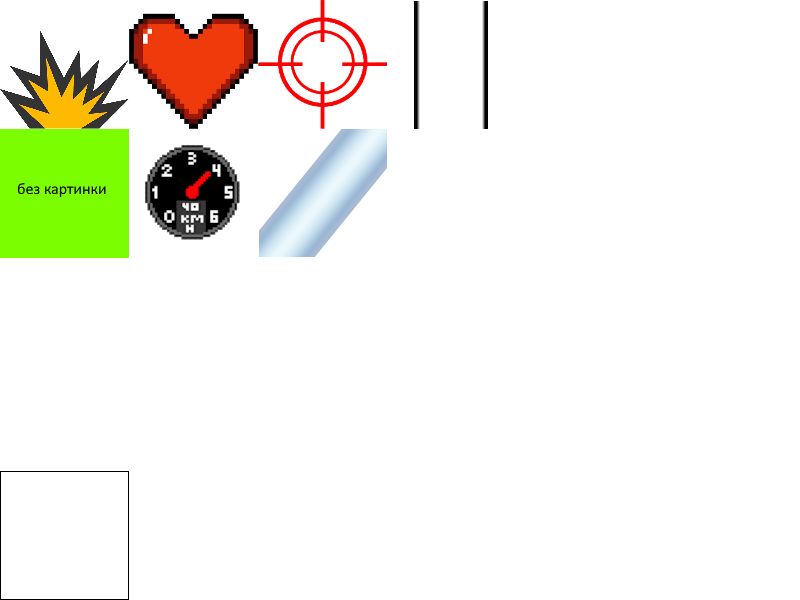
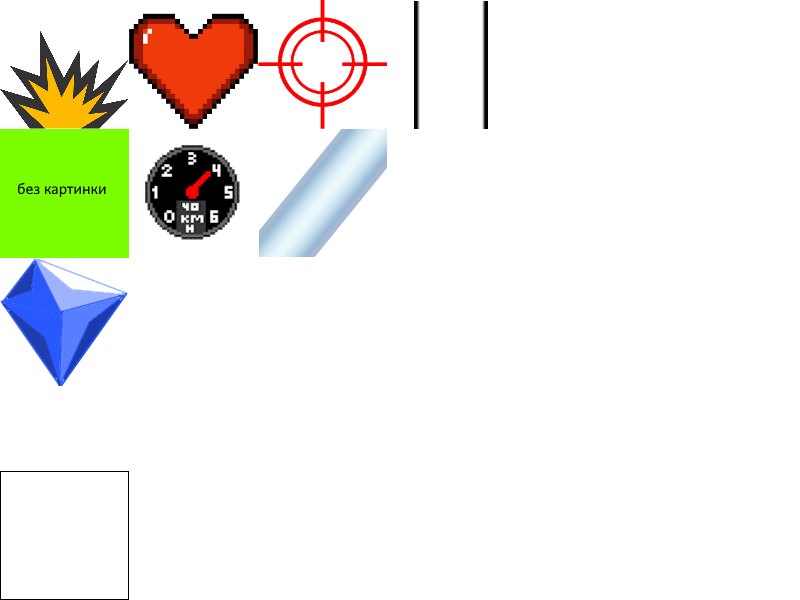
health drop

Changed region(s): [[0.0, 0.42, 0.1562, 0.66]]

diff --git a/index.js b/index.js
@@ -145,6 +145,8 @@ ricoBullet.src = `${srcImg}ricoBullet.png`;
 freezeBullet.src = `${srcImg}freezeBullet.png`;
 const ray = new Image();
 ray.src = `${srcImg}Effects/ray.png`;
+const health_img = new Image();
+health_img.src = `${srcImg}health.png`;
 const ricochetBullets = [], freezeGunBullets = [],
 ricochetBulletsSpeed = 20, freezeGunBulletsSpeed = 7;
 const raySize = 20, rayRange = 400;
@@ -154,6 +156,9 @@ for(let i = 1; i <= 8; ++i){
     g.src=`${srcImg}Effects/rayExp${i}.png`;
     rayExps.push(g);
 }
+
+var COLLECT_RANGE = 100;
+
 const playerStatesList = [
     {
         name: 'speed',
@@ -203,6 +208,14 @@ const playerStatesList = [
         img: '#000',
         icon: {x: 3, y: 0},
         active: false
+    },
+    {
+        name: 'collect_range',
+        cur: 0,
+        max: 3,
+        img: 'blue',
+        icon: {x: 0, y :2},
+        active: false
     }
 ],
 playerStates = {
@@ -212,7 +225,8 @@ playerStates = {
     damage: 3,
     laser: 4,
     airSupport: 5,
-    ray: 6
+    ray: 6,
+    collect_range: 7
 }
 const tanksParams={ 
     '01':{
@@ -1193,6 +1207,27 @@ new Pumping('Увеличить урон', {x: 0, y: 0}, ()=>{
         p.damageT*=1.2;    
     },playerStatesList[playerStates.damage].max-1));
 }),
+new Pumping('Радиус сбора +20%', {x: 0, y: 2},
+()=>{
+    playerStatesList[playerStates.collect_range].active=true;
+    playerStatesList[playerStates.collect_range].cur++;
+    COLLECT_RANGE*=1.2;
+    pumpings.push(
+        new Pumping('Радиус сбора +30%', {x: 0, y: 2},
+        ()=>{
+            playerStatesList[playerStates.collect_range].cur++;
+            COLLECT_RANGE*=1.3;
+            pumpings.push(
+                new Pumping('Радиус сбора +40%', {x: 0, y: 2},
+                ()=>{
+                    playerStatesList[playerStates.collect_range].cur++;
+                    COLLECT_RANGE*=1.4;
+                })
+            )
+        }),
+    )
+}
+)
 // new Pumping('ОГНЕМЁТ', '#fc6203', ()=>{p.reload.t = 0;p.isRicochet = false; p.isTesla=false; p.isFiregun=true; p.isMGun=false; p.MGActive = false; p.isThunder=false; p.setGun(firegunIMG); p.damageT=2; p.reload.mTime = 86; p.isFreezegun=false;}),
 // new Pumping('РЕЛЬСА', '#00fffb', ()=>{p.reload.t = 0;p.isRicochet = false; p.isTesla=true; p.isFiregun=false; p.isMGun=false; p.MGActive = false; p.isThunder=false; p.setGun(teslaIMG); p.damageT=50; p.reload.mTime = 70; p.isFreezegun=false;}),
 // new Pumping('ПУЛЕМЁТ', '#00fffb', ()=>{p.reload.t = 0;p.isRicochet = false; p.isMGun=true; p.isFiregun=false; p.isTesla=false; p.setGun(MGIMG); p.isThunder=false; p.damageT=1; p.reload.mTime = 100; p.isFreezegun=false;}),
@@ -1205,6 +1240,10 @@ new Pumping('Увеличить урон', {x: 0, y: 0}, ()=>{
 
 ];
 
+const exp_image = new Image();
+
+exp_image.src = `${srcImg}exp.png`;
+
 const p = new Tank({x: 824, y: 350},{hull: ALL_HULLS[0], gun: ALL_GUNS[0]},8, 'A', avliableHullColors[0],teams.allies, 2, pickUpRandomFromArray(aviableTracks)), //pickUpRandomFromArray(aviableTanks)
 secondTank = new Tank({x: canvas.width/2-250, y: canvas.height/2-250},{hull:'08', gun:'02'},5, 'A'); //,{hull: {center:{x:128, y:174}}, gun: {center:{x: 128, y: 160}}}
 // p.bombardment.isActive = true;
@@ -1213,7 +1252,7 @@ damage=30;
 p.countShots=1;
 p.isLaserActive=0;
 p.damageT = 30;
-p.laserDamage = 0.2;
+p.laserDamage = 0.1;
 // p.reload.mTime = 180;
 p.reload.t = 0;
 p.attackRange = canvas.width*0.3;
@@ -1540,11 +1579,42 @@ function renderGame(){
         // c.fillText(`tanks.length = ${tanks.length}`, canvas.width*3/4, 50);
         // c.fillText(`x: ${p.pos.x}`, 10, 50);
         // c.fillText(`y: ${p.pos.y}`, 10, 100);
-        exps.forEach(e=>{
-            if(e.team==teams.enemies)
-                c.fillStyle='blue';
-            else c.fillStyle='red';
-            c.fillRect(-p.pos.x+canvas.width/2+ e.x-10,-p.pos.y+canvas.height/2+ e.y-10, 20, 20);
+        exps.forEach((e, i)=>{
+            if(checkCollisionPoint(p, e)){
+                if(e.type === 'health') {
+                    p.health.cur = Math.min(p.health.max, p.health.cur + 60);
+                    exps.splice(i, 1);
+                    return
+                }
+                p.exp++;
+                if(p.exp>=p.level.need){
+                    p.level.cur++;
+                    p.exp%=p.level.need;
+                    p.level.need++;
+                    on_level_up(p.level.cur + 1);
+                    setGainState();
+                }
+                exps.splice(i, 1);
+            }
+            else 
+            if(Math.sqrt(Math.pow(e.x - p.pos.x, 2) + Math.pow(e.y - p.pos.y, 2)) < COLLECT_RANGE){
+                if(e.x < p.pos.x){
+                    e.x++;
+                }
+                if(e.x > p.pos.x){
+                    e.x--;
+                }
+                if(e.y < p.pos.y){
+                    e.y++;
+                }
+                if(e.y > p.pos.y){
+                    e.y--;
+                }
+            }
+            let dr_img = exp_image;
+            if(e.type === 'health') dr_img = health_img;
+            c.drawImage(dr_img, 0, 0, dr_img.width, dr_img.height, -p.pos.x+canvas.width/2+ e.x-20,-p.pos.y+canvas.height/2+ e.y-20, 40, 40);
+            // c.fillRect(-p.pos.x+canvas.width/2+ e.x-10,-p.pos.y+canvas.height/2+ e.y-10, 20, 20);
         })
         lastTime = Date.now();
         // c.drawImage(hull, 0, 0, hull.width, hull.height, -p.pos.x+secondPos.x+canvas.width/2, -p.pos.y+secondPos.y+canvas.height/2, hullSize.w, hullSize.h);
@@ -2119,7 +2189,11 @@ function renderGame(){
             tank.drawHull(p); //рисую
         if(tank.health.cur<=0 ) tank.deathTime.active=true; //если здоровье <= 0, удаляю объект
         if(tank.deathTime.time == 0) {
-            exps.push({x:tank.pos.x, y: tank.pos.y, team: teams.enemies});
+            let type = 'exp';
+            if(Math.random() > 0.7){
+                type = 'health'
+            }
+            exps.push({x:tank.pos.x, y: tank.pos.y, team: teams.enemies, type: type});
             tanks.splice(i, 1);} //если здоровье <= 0, удаляю объект
             tank = null;
         });
@@ -2482,7 +2556,11 @@ function renderGame(){
             tank.drawHull(p); //рисую
             if(tank.health.cur<=0 ) tank.deathTime.active=true; //если здоровье <= 0, удаляю объект
             if(tank.deathTime.time == 0){
-                exps.push({x:tank.pos.x, y: tank.pos.y, team: teams.allies});
+                let type = 'exp';
+                if(Math.random() > 0.7){
+                    type = 'health'
+                }
+                exps.push({x:tank.pos.x, y: tank.pos.y, team: teams.allies, type: type});
                 allies.splice(i, 1);} //если здоровье <= 0, удаляю объект
                 tank = null;
         });
@@ -3344,6 +3422,11 @@ function key_pressed(keycode) {
             p.isMove=true;
             exps.forEach((e, i)=>{
                 if(checkCollisionPoint(p, e)){
+                    if(e.type === 'health') {
+                        p.health.cur = Math.min(p.health.max, p.health.cur + 60);
+                        exps.splice(i, 1);
+                        return
+                    }
                     p.exp++;
                     if(p.exp>=p.level.need){
                         p.level.cur++;
